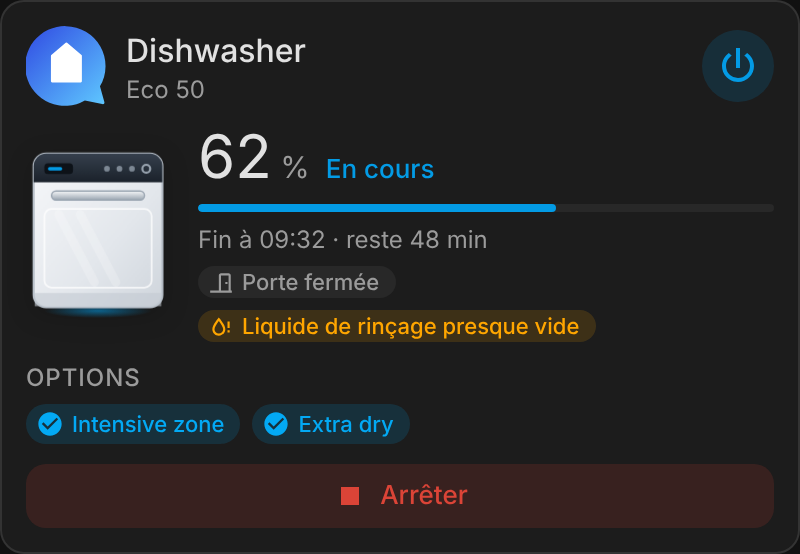
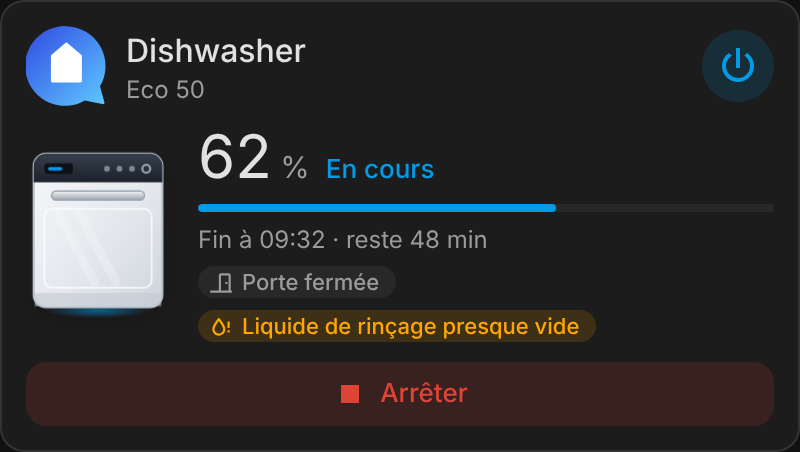
Revert read-only options while a program runs (1.6.3) (#18)
Reverts #16: Home Connect makes the option entities unavailable once a
program has started, so nothing could be listed.

---
_Generated by [Claude
Code](https://claude.ai/code/session_01UPucBWYpSHML4ZNsLcxn7A)_

diff --git a/src/home-connect-card.js b/src/home-connect-card.js
@@ -638,24 +638,6 @@ class HomeConnectBaseCard extends HTMLElement {
       }
     }
 
-    // While a program runs the options can't be changed: the ones in use are listed, read-only.
-    var activeOpts = [];
-    if (c.show_options && online && running) {
-      ent.option_selects.filter((id) => this._avail(id)).forEach((id) => {
-        activeOpts.push({ label: this._entityLabel(id, deviceName), value: this._fmt(id) });
-      });
-      ent.option_switches.filter((id) => this._val(id) === 'on').forEach((id) => {
-        activeOpts.push({ label: this._entityLabel(id, deviceName) });
-      });
-      if (activeOpts.length) {
-        optionsHtml = '<div class="section"><div class="section-title">' + this._t('options') + '</div><div class="toggles">' +
-          activeOpts.map((o) => o.value
-            ? `<span class="opt" title="${hcEsc(o.label)}"><span class="k">${hcEsc(o.label)}</span>${hcEsc(o.value)}</span>`
-            : `<span class="opt on"><ha-icon icon="mdi:check-circle"></ha-icon>${hcEsc(o.label)}</span>`).join('') +
-          '</div></div>';
-      }
-    }
-
     // Controls.
     var controls = '';
     if (c.show_controls && online && powerOn) {
@@ -714,7 +696,7 @@ class HomeConnectBaseCard extends HTMLElement {
 
     if (this._compact()) {
       this.shadowRoot.innerHTML = this._miniHtml({ c, ent, name, color, state, statusText, running, online, powerOn, progress,
-        finish, progLabel, activeOpts, chips: chips.filter((x) => x.indexOf('chip warn') >= 0 || !online), art, logo, powerBtn });
+        finish, progLabel, chips: chips.filter((x) => x.indexOf('chip warn') >= 0 || !online), art, logo, powerBtn });
       return;
     }
 
@@ -826,11 +808,6 @@ class HomeConnectBaseCard extends HTMLElement {
         ' background: var(--secondary-background-color, rgba(128,128,128,0.12)); color: var(--secondary-text-color); }' +
       '.toggle ha-icon { --mdc-icon-size: 16px; }' +
       '.toggle:disabled { opacity: 0.45; }' +
-      '.opt { display: inline-flex; align-items: center; gap: 4px; font-size: 11px; font-weight: 500; padding: 3px 8px; border-radius: 12px;' +
-        ' background: var(--secondary-background-color, rgba(128,128,128,0.12)); color: var(--primary-text-color); }' +
-      '.opt .k { color: var(--secondary-text-color); font-weight: 400; }' +
-      '.opt ha-icon { --mdc-icon-size: 14px; }' +
-      '.opt.on { padding-left: 5px; background: color-mix(in srgb, var(--primary-color, #03a9f4) 15%, transparent); color: var(--primary-color, #03a9f4); }' +
       '.reload { display: flex; align-items: center; justify-content: space-between; gap: 8px; flex-wrap: wrap; font-size: 12px; color: var(--secondary-text-color); }' +
       '.link { display: inline-flex; align-items: center; gap: 4px; font-size: 12px; font-weight: 500; padding: 4px 8px; border-radius: 10px; background: none; color: var(--primary-color, #03a9f4); }' +
       '.link ha-icon { --mdc-icon-size: 16px; }' +
@@ -1087,11 +1064,7 @@ var hcMini = (Base) => class extends Base {
       var pct = m.state === 'finished' ? 100 : (m.progress == null ? 0 : m.progress);
       bar = '<div class="mbar"><div class="bar"><div class="fill" style="width:' + pct + '%"></div></div><span class="v">' + Math.round(pct) + ' %</span></div>';
     }
-    if (m.progLabel && m.online && m.powerOn) {
-      // Running: the options in use follow the program name.
-      var prog = [m.progLabel].concat(m.activeOpts.map((o) => o.value || o.label)).join(' · ');
-      lines.push(`<div class="line"><ha-icon icon="mdi:tune-variant"></ha-icon><span title="${hcEsc(prog)}">${hcEsc(prog)}</span></div>`);
-    }
+    if (m.progLabel && m.online && m.powerOn) lines.push(`<div class="line"><ha-icon icon="mdi:tune-variant"></ha-icon><span>${hcEsc(m.progLabel)}</span></div>`);
     if (m.running && m.finish) {
       var mins = Math.max(0, Math.round((m.finish.getTime() - Date.now()) / 60000));
       var h = Math.floor(mins / 60), mm = mins % 60;

diff --git a/CHANGELOG.md b/CHANGELOG.md
@@ -1,5 +1,10 @@
 # Changelog
 
+## 1.6.3
+
+### Changes
+- Reverted the read-only options shown while a program runs (1.6.2): Home Connect doesn't expose them once a program has started.
+
 ## 1.6.2
 
 ### Changes
